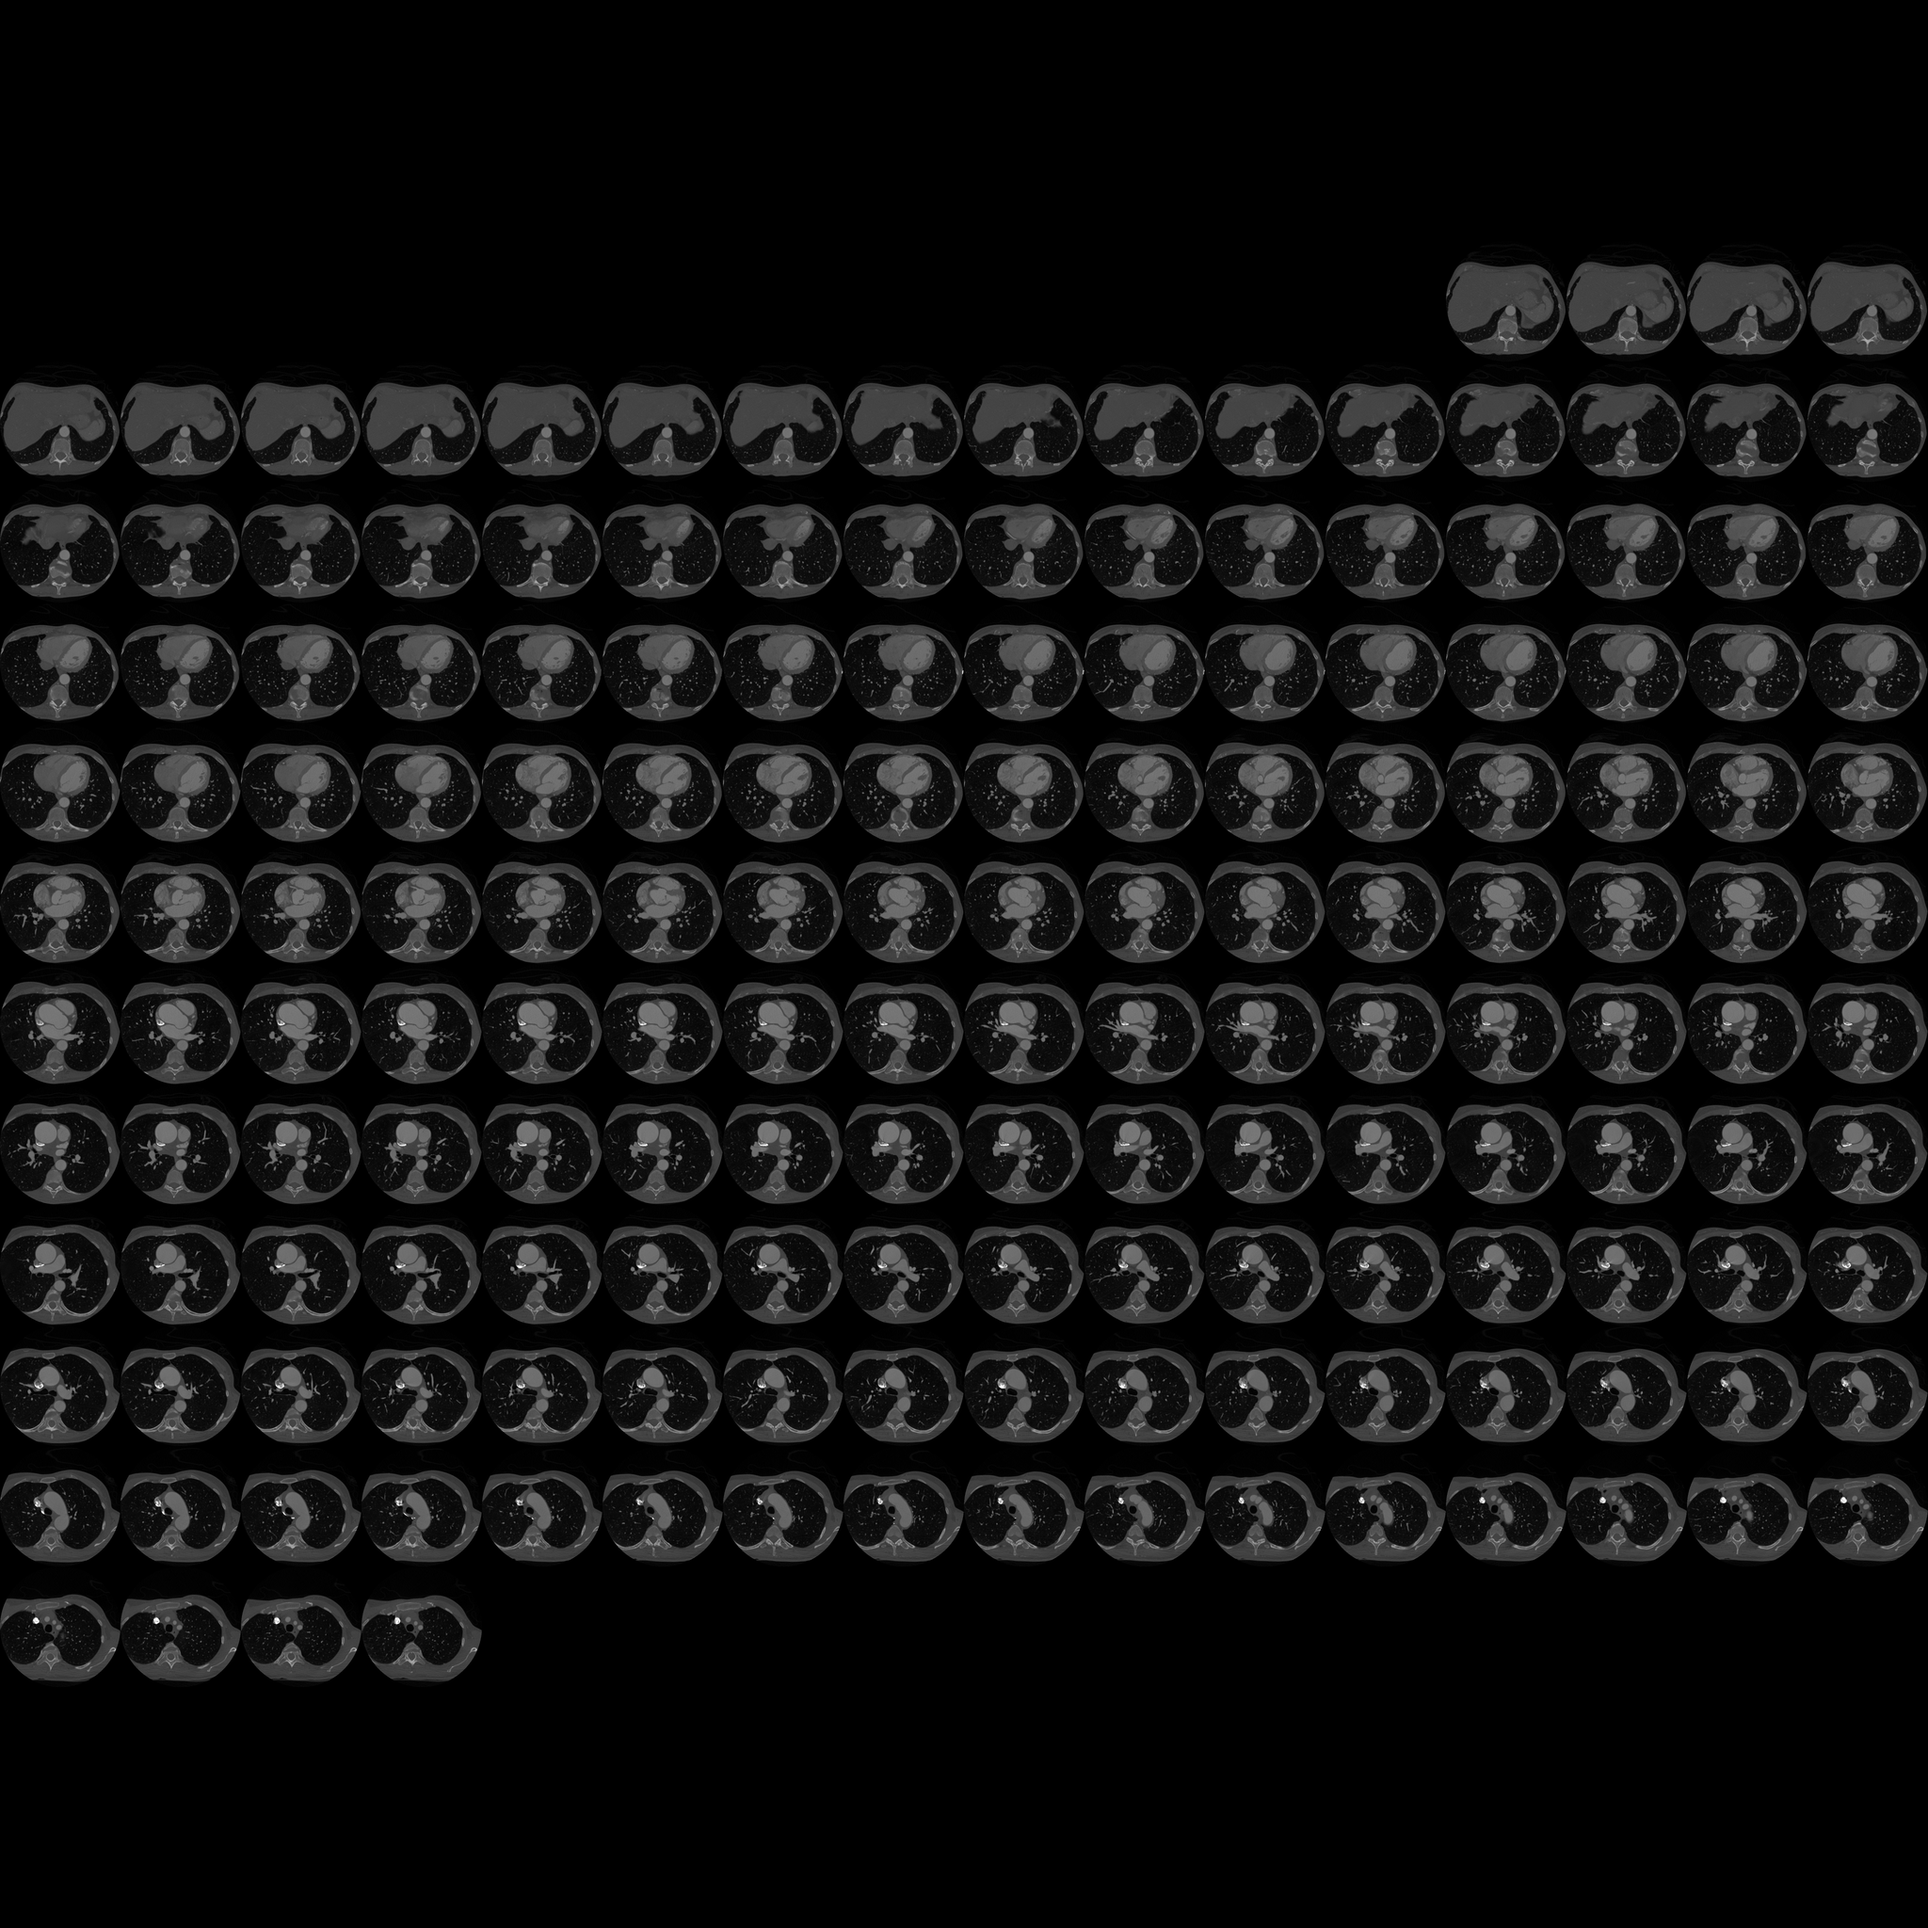
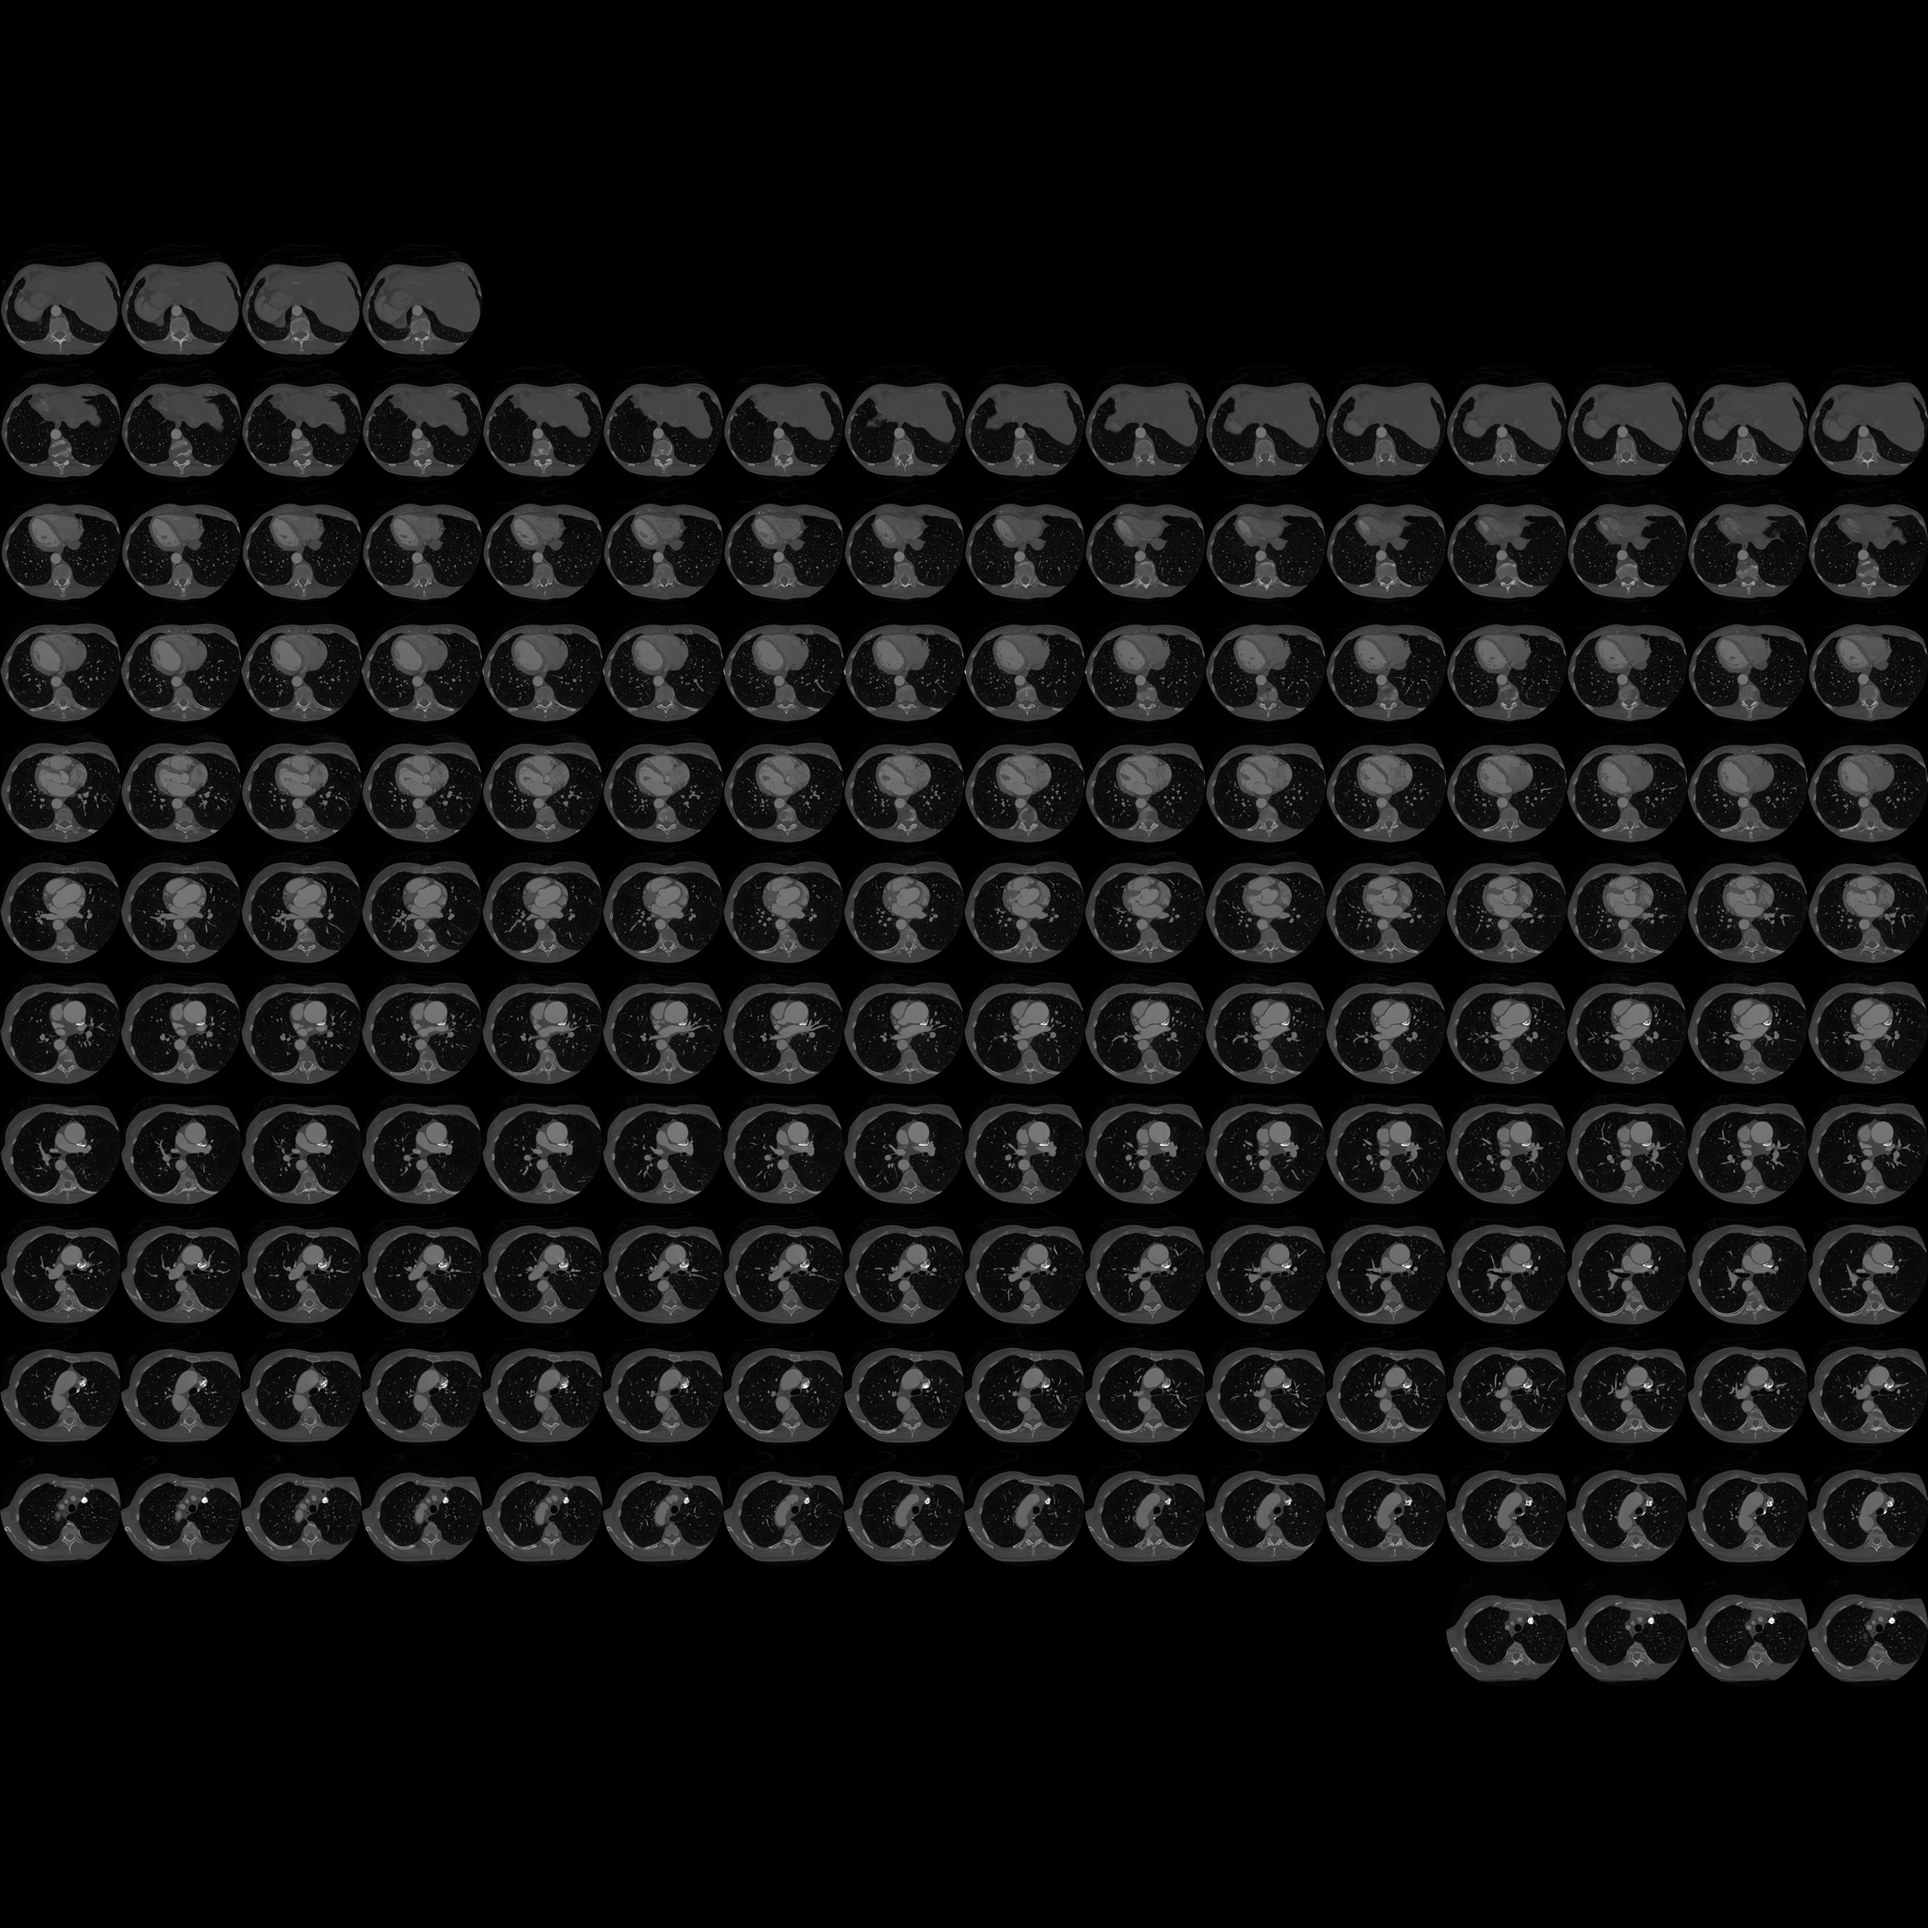
- updated the volumes so y is no longer flipped - sort-of functional iterating sdf

Changed region(s): [[0.0, 0.125, 1.0, 0.875]]

diff --git a/raytrace.js b/raytrace.js
@@ -34,8 +34,8 @@ gl.getExtension( 'OES_texture_float' );
 gl.getExtension( 'OES_texture_float_linear' );
 
 var start = Date.now();
-var width = 128,
-    height = 128,
+var width = 256,
+    height = width,
     slices = { x: 16, y: 16 };
 
 var frameBuffers,
@@ -44,6 +44,7 @@ var frameBuffers,
     sourceVolume;
 var seedOrigin;
 var seedRadius;
+var targetIntensity;
 
 var programs = {};
 
@@ -98,6 +99,8 @@ var rightMouseDown = false;
 renderCanvas.onmousedown = onMouseDownEvent;
 document.onmouseup 		= onMouseUpEvent;
 document.onmousemove 	= onMouseMoveEvent;
+document.onkeypress     = onKeyPressEvent;
+
 //suppress context menu on right-click
 document.oncontextmenu  = function( event ) {
     return false;
@@ -152,6 +155,12 @@ function onMouseMoveEvent( event ) {
     camera.update();
     render();
 }
+
+function onKeyPressEvent( event ) {
+    if( iteration < MAX_ITERATION ) iteration++;
+    render();
+}
+
 ////////////////////////////////////////////////////////////////////////////////
 // CAMERA SETUP
 ////////////////////////////////////////////////////////////////////////////////
@@ -307,6 +316,7 @@ var getUpdateUniforms = function ( program ) {
     program.sourceTexelSize = gl.getUniformLocation( program, 'sourceTexelSize' );
     program.volumeDimensions = gl.getUniformLocation( program, 'volumeDimensions' );
     program.seedOrigin = gl.getUniformLocation( program, 'seedOrigin' );
+    program.targetIntensity = gl.getUniformLocation( program, 'targetIntensity' );
     program.distanceFieldTexture = gl.getUniformLocation( program, 'distanceFieldTexture' );
     program.volumeTexture = gl.getUniformLocation( program, 'volumeTexture' );
 }
@@ -486,11 +496,14 @@ function init() {
     };
     sourceImage.src = 'res/bonsai128x128x256.png';
     //sourceImage.src = 'res/bonsai256x256x256.png';
-    //sourceImage.src = 'res/heart128x128x256.png';
+    //sourceImage.src = 'res/foot256x256x256.png';
+    //sourceImage.src = 'res/male128x128x256.png';
     //sourceImage.src = 'res/teapot256x256x256.png';
 
-    seedOrigin = [ 0.5, 0.5, 0.5 ];
+    //todo make selectable
+    seedOrigin = [ 0.5, 0.3, 0.25 ];
     seedRadius = 0.2;
+    targetIntensity = 0.4;
 
     create3DBuffers();
     create2DBuffers();
@@ -565,7 +578,7 @@ function renderOnce() {
 
 var backfacing = true;
 var iteration = 0;
-var MAX_ITERATION = 200;
+var MAX_ITERATION = 500;
 
 function render() {
     //stats.begin();
@@ -585,10 +598,10 @@ function render() {
     program_backfaces.render( frontfaceFrameBuffer, !backfacing );
     program_backfaces.render( backfaceFrameBuffer, backfacing );
 
-    program_raytrace.render( frameBuffers[ ( iteration + 1 ) % 2 ].texture, frameBuffers[ 0 ].texture, frontfaceFrameBuffer.texture, backfaceFrameBuffer.texture );
-    //program_raytrace.render( frameBuffers[ 0 ].texture, frameBuffers[ 0 ].texture, frontfaceFrameBuffer.texture, backfaceFrameBuffer.texture );
+    program_raytrace.render( sourceVolume, frameBuffers[ ( iteration + 1 ) % 2 ].texture, frontfaceFrameBuffer.texture, backfaceFrameBuffer.texture );
+    //program_raytrace.render( frameBuffers[ ( iteration + 1 ) % 2 ].texture, frameBuffers[ 0 ].texture, frontfaceFrameBuffer.texture, backfaceFrameBuffer.texture );
 
-    if( iteration < MAX_ITERATION ) iteration++;
+    //if( iteration < MAX_ITERATION ) iteration++;
 
     //program_debug.render( backfaceFrameBuffer.texture );
     //stats.end();
@@ -633,6 +646,7 @@ function updateDistanceField( volumeTexture, sourceFrameBuffer, targetFrameBuffe
     gl.uniform2f( program.tiles, slices.x, slices.y );
     gl.uniform2f( program.sourceTexelSize, 1. / width, 1. / height );
     gl.uniform3f( program.seedOrigin, seedOrigin[ 0 ], seedOrigin[ 1 ], seedOrigin[ 2 ] );
+    gl.uniform1f( program.targetIntensity, targetIntensity );
     gl.uniform3f( program.volumeDimensions, width, height, slices.x * slices.y );
 
     gl.bindFramebuffer( gl.FRAMEBUFFER, targetFrameBuffer.buffer ); //fbo texture to write to
